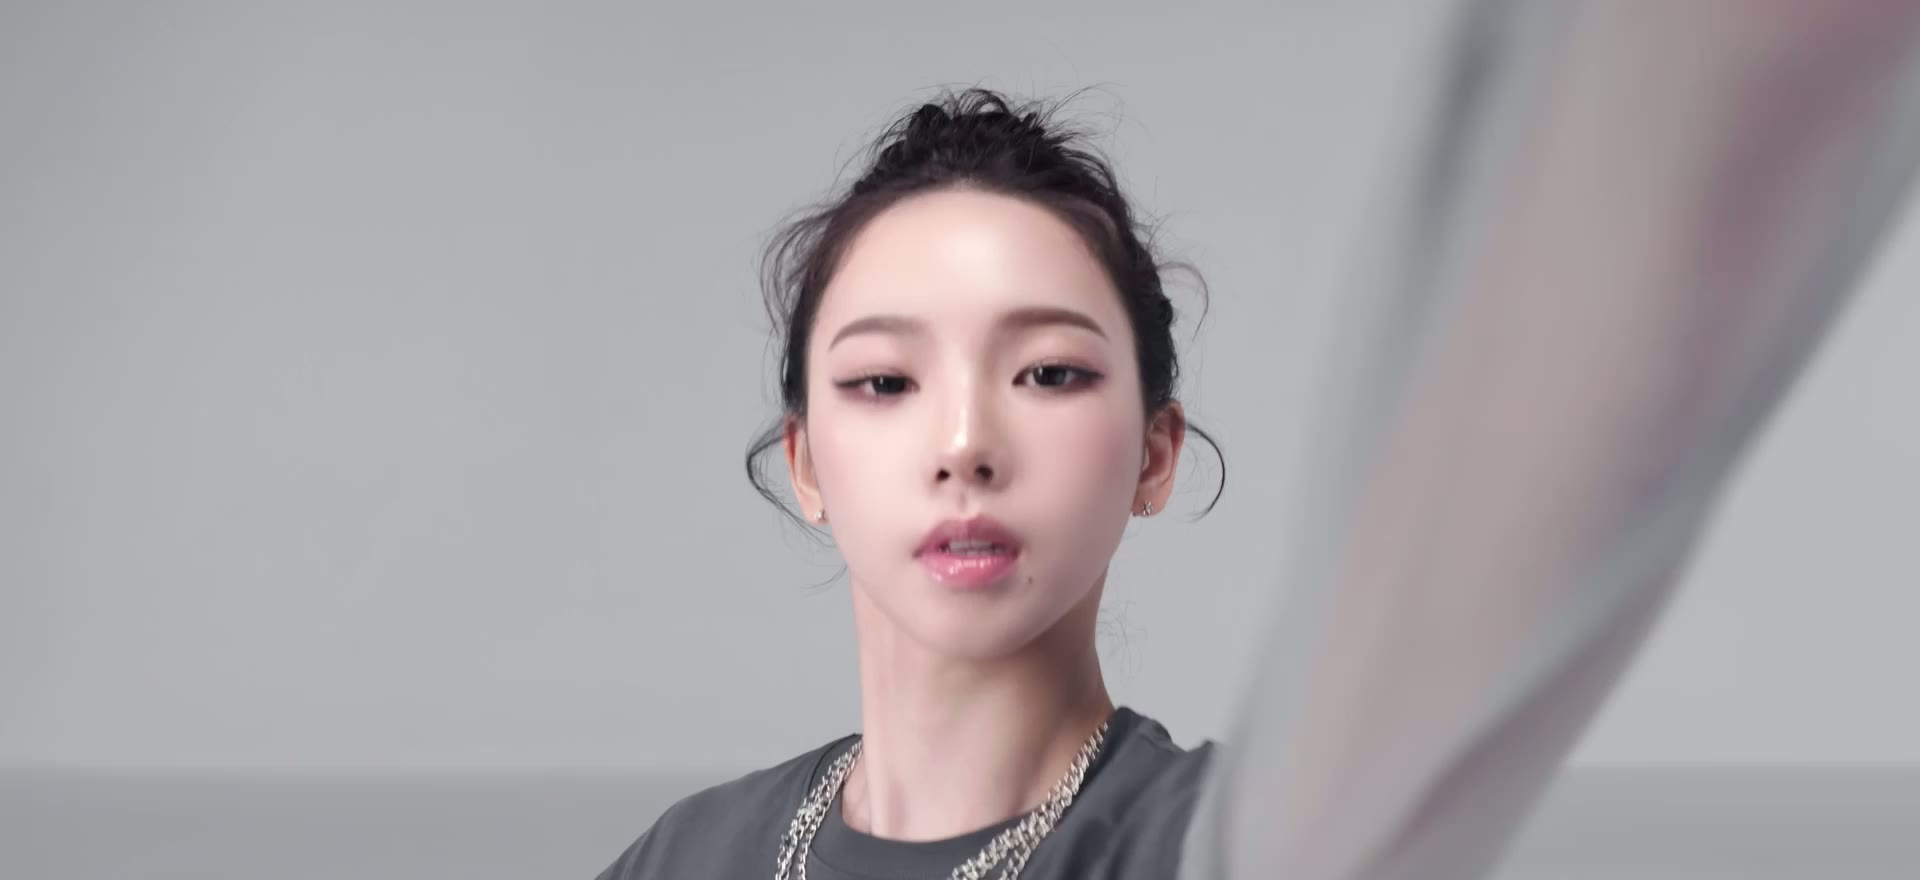
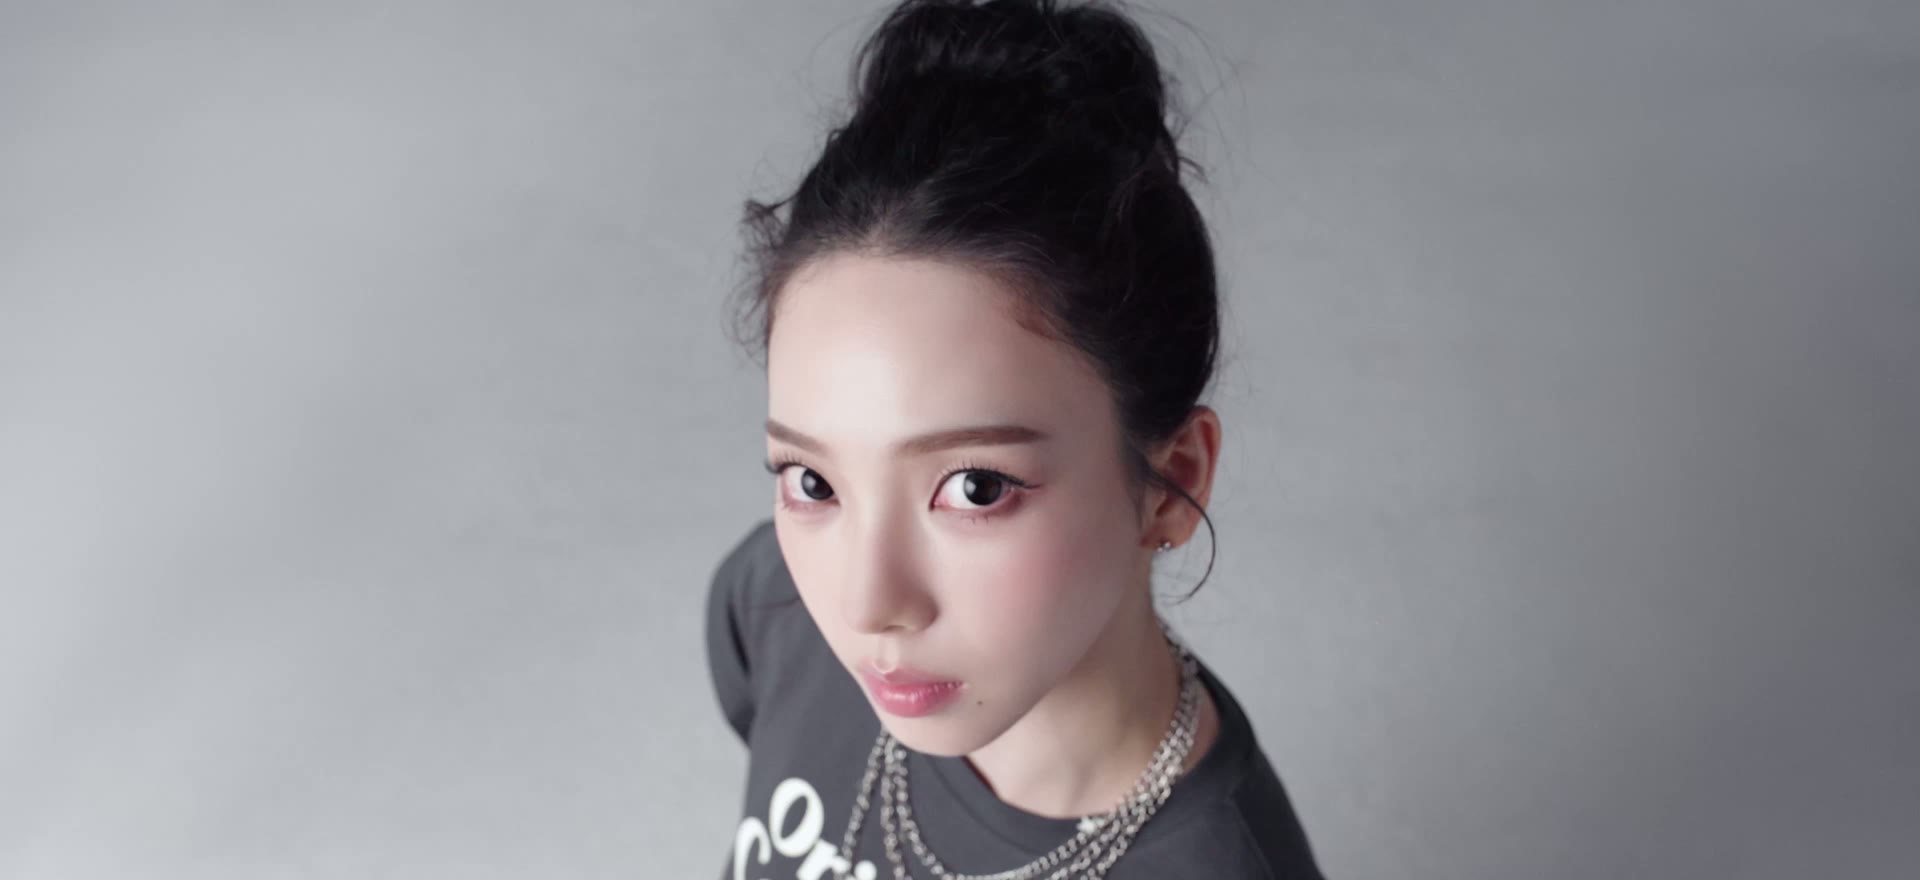
feat: Hero 영상을 인트로 종료 후 처음부터 재생 (앞부분 홀드)
- intro-signal 공유 모듈로 인트로 완료 신호 전달 (마운트 순서 무관)
- IntroAnimation 완료 시 markIntroDone 호출
- HomeHero: autoPlay 제거, 인트로 끝나면 currentTime 0부터 재생
- 신호 미수신 대비 4초 안전 폴백
- 포스터를 0초 프레임으로 교체해 홀드→재생 끊김 제거

diff --git a/src/components/sections/home/HomeHero.tsx b/src/components/sections/home/HomeHero.tsx
@@ -4,26 +4,48 @@ import { useEffect, useRef, useState } from "react";
 import { motion } from "framer-motion";
 import { Button } from "@/components/ui/Button";
 import { SpotlightText } from "@/components/ui/SpotlightText";
+import { onIntroDone } from "@/lib/intro-signal";
 
 export function HomeHero() {
   const videoRef = useRef<HTMLVideoElement>(null);
   const [muted, setMuted] = useState(true);
   const [volume, setVolume] = useState(1);
+  const started = useRef(false);
 
-  // 마운트 시 소리 켜진 채 자동재생 시도 → 브라우저가 막으면 무음으로 폴백
+  // 인트로("unbound.")가 끝난 뒤 영상을 처음부터 재생 — 앞부분이 안 잘리도록.
+  // 소리 켜진 채 재생 시도, 브라우저가 막으면 무음으로 폴백.
   useEffect(() => {
     const v = videoRef.current;
     if (!v) return;
-    v.volume = 1;
-    v.muted = false;
-    const p = v.play();
-    if (p && typeof p.then === "function") {
-      p.then(() => setMuted(false)).catch(() => {
-        v.muted = true;
-        setMuted(true);
-        void v.play().catch(() => {});
-      });
-    }
+    v.currentTime = 0;
+
+    let fallback: ReturnType<typeof setTimeout> | undefined;
+
+    const startPlayback = () => {
+      if (started.current) return;
+      started.current = true;
+      if (fallback) clearTimeout(fallback);
+      v.currentTime = 0;
+      v.volume = 1;
+      v.muted = false;
+      const p = v.play();
+      if (p && typeof p.then === "function") {
+        p.then(() => setMuted(false)).catch(() => {
+          v.muted = true;
+          setMuted(true);
+          void v.play().catch(() => {});
+        });
+      }
+    };
+
+    const off = onIntroDone(startPlayback);
+    // 안전 폴백: 신호가 4초 내 안 오면 그냥 재생
+    fallback = setTimeout(startPlayback, 4000);
+
+    return () => {
+      off();
+      if (fallback) clearTimeout(fallback);
+    };
   }, []);
 
   function toggleSound() {
@@ -55,14 +77,13 @@ export function HomeHero() {
     <section className="bg-brand-black pt-28 md:pt-32">
       <div>
         <div className="relative h-[calc(100svh-7rem)] min-h-[480px] w-full overflow-hidden bg-brand-black md:h-[calc(100svh-8rem)]">
-          {/* 배경 영상 — 자동재생 · 루프 · 클릭 시 음소거 토글 */}
+          {/* 배경 영상 — 인트로 후 처음부터 재생 · 루프 · 클릭 시 음소거 토글 */}
           <video
             ref={videoRef}
             onClick={toggleSound}
             className="absolute inset-0 h-full w-full cursor-pointer object-cover"
             src="/hero-reel.mp4"
             poster="/hero-reel-poster.jpg"
-            autoPlay
             muted
             loop
             playsInline

diff --git a/src/lib/intro-signal.ts b/src/lib/intro-signal.ts
@@ -1,0 +1,26 @@
+// 인트로 애니메이션 완료 신호를 컴포넌트 간 공유.
+// 마운트 순서와 무관하게: 이미 끝났으면 콜백 즉시 실행, 아니면 끝날 때 실행.
+
+let done = false;
+const listeners = new Set<() => void>();
+
+export function markIntroDone(): void {
+  if (done) return;
+  done = true;
+  listeners.forEach((l) => l());
+  listeners.clear();
+}
+
+export function isIntroDone(): boolean {
+  return done;
+}
+
+// 인트로 완료 시 콜백 실행. 이미 완료됐으면 즉시 실행. 구독 해제 함수 반환.
+export function onIntroDone(cb: () => void): () => void {
+  if (done) {
+    cb();
+    return () => {};
+  }
+  listeners.add(cb);
+  return () => listeners.delete(cb);
+}

diff --git a/src/components/ui/IntroAnimation.tsx b/src/components/ui/IntroAnimation.tsx
@@ -2,6 +2,7 @@
 
 import { useEffect, useRef, useState } from "react";
 import { motion } from "framer-motion";
+import { markIntroDone } from "@/lib/intro-signal";
 
 const CHARS = ["U", "n", "b", "o", "u", "n", "d", "."];
 
@@ -15,12 +16,13 @@ export function IntroAnimation() {
 
     if (sessionStorage.getItem("intro-done")) {
       setPhase("done");
+      markIntroDone();
       return;
     }
     sessionStorage.setItem("intro-done", "1");
 
     const t1 = setTimeout(() => setPhase("exit"), 1800);
-    const t2 = setTimeout(() => setPhase("done"), 2700);
+    const t2 = setTimeout(() => { setPhase("done"); markIntroDone(); }, 2700);
     return () => { clearTimeout(t1); clearTimeout(t2); };
   }, []);
 
